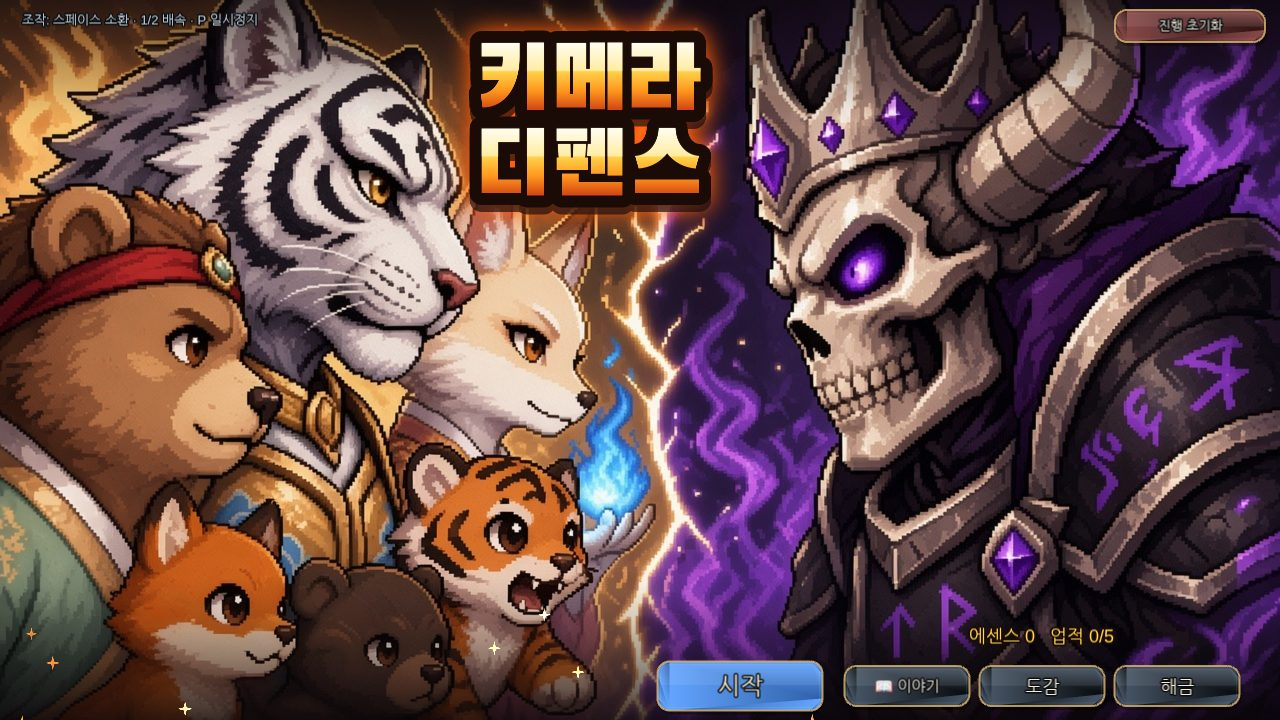
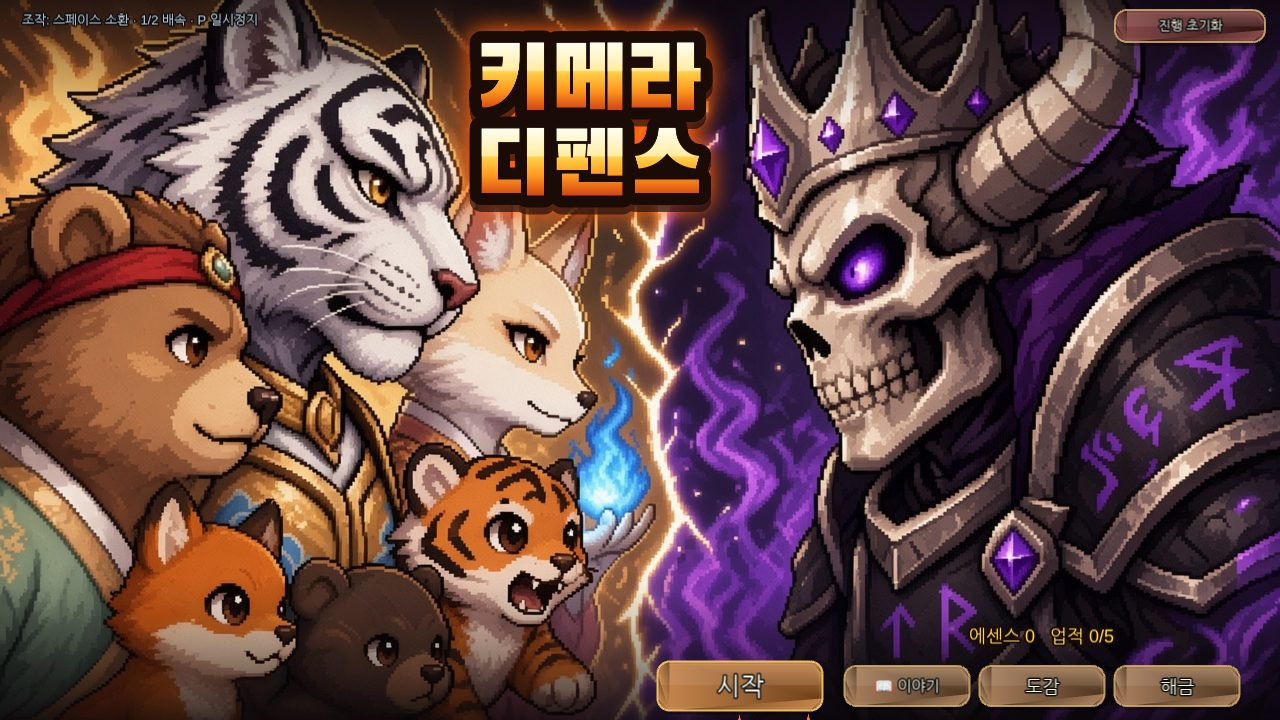
제목 화면 메뉴 버튼을 시안처럼 갈색(나무·가죽)+금테로, 시작은 밝은 호박색으로 강조(제목 화면만)

Changed region(s): [[0.5, 0.9167, 0.9688, 1.0]]

diff --git a/src/scenes/TitleScene.js b/src/scenes/TitleScene.js
@@ -4,6 +4,10 @@ import { defaultSave, writeSave } from '../logic/meta.js';
 import { unlockAudio } from './sfx.js';
 import { showDebug } from './debug.js';
 
+// 제목 화면 메뉴만 쓰는 갈색(나무·가죽) 버튼 + 금빛 테두리. 다른 화면 공통 버튼은 그대로
+const WOOD = { fill: 0x7a5230, stroke: 0xd4b06a, color: '#fff3d6' };
+const START = { fill: 0x9a5a22, stroke: 0xffd36b, color: '#fff8e6' }; // 시작: 더 밝은 호박색·밝은 금테
+
 export default class TitleScene extends Phaser.Scene {
   constructor() { super('Title'); }
 
@@ -23,16 +27,16 @@ export default class TitleScene extends Phaser.Scene {
     showDebug(this, null);
     // 부제('지구의 심장을 지켜라…')는 선생님 결정(2026-11-26)으로 제목 화면에서 뺌
     const go = () => this.scene.start(save.openingSeen ? 'StageSelect' : 'Opening', { next: 'StageSelect' });
-    button(this, 740, 686, 165, 49, '시작', go, { size: 24, fill: 0x3a7bd5 });
-    button(this, 907, 686, 125, 40, '📖 이야기', () => this.scene.start('Opening', { next: 'Title' }), { size: 15, tip: '오프닝 다시 보기' });
-    button(this, 1042, 686, 125, 40, '도감', () => this.scene.start('Codex'), { size: 18 });
-    button(this, 1177, 686, 125, 40, '해금', () => this.scene.start('Unlock'), { size: 18 });
+    button(this, 740, 686, 165, 49, '시작', go, { size: 25, ...START });
+    button(this, 907, 686, 125, 40, '📖 이야기', () => this.scene.start('Opening', { next: 'Title' }), { size: 15, ...WOOD, tip: '오프닝 다시 보기' });
+    button(this, 1042, 686, 125, 40, '도감', () => this.scene.start('Codex'), { size: 18, ...WOOD });
+    button(this, 1177, 686, 125, 40, '해금', () => this.scene.start('Unlock'), { size: 18, ...WOOD });
     // 크롬에서 설치할 수 있을 때만 보이는 '앱으로 설치' 버튼
     const inst = button(this, 740, 631, 165, 36, '📲 앱으로 설치', async () => {
       const p = window.__installPrompt; if (!p) return;
       p.prompt(); const r = await p.userChoice.catch(() => null);
       if (r?.outcome === 'accepted') inst.setVisible(false);
-    }, { size: 15, fill: 0x2e5d3a, stroke: 0x9cff6b, tip: '바탕화면·홈 화면에 아이콘이 생기고 인터넷 없이도 실행됨' });
+    }, { size: 15, ...WOOD, tip: '바탕화면·홈 화면에 아이콘이 생기고 인터넷 없이도 실행됨' });
     const standalone = window.matchMedia?.('(display-mode: standalone)').matches || window.matchMedia?.('(display-mode: fullscreen)').matches;
     inst.setVisible(!!window.__installPrompt && !standalone);
     const onAble = () => inst.setVisible(!standalone);
